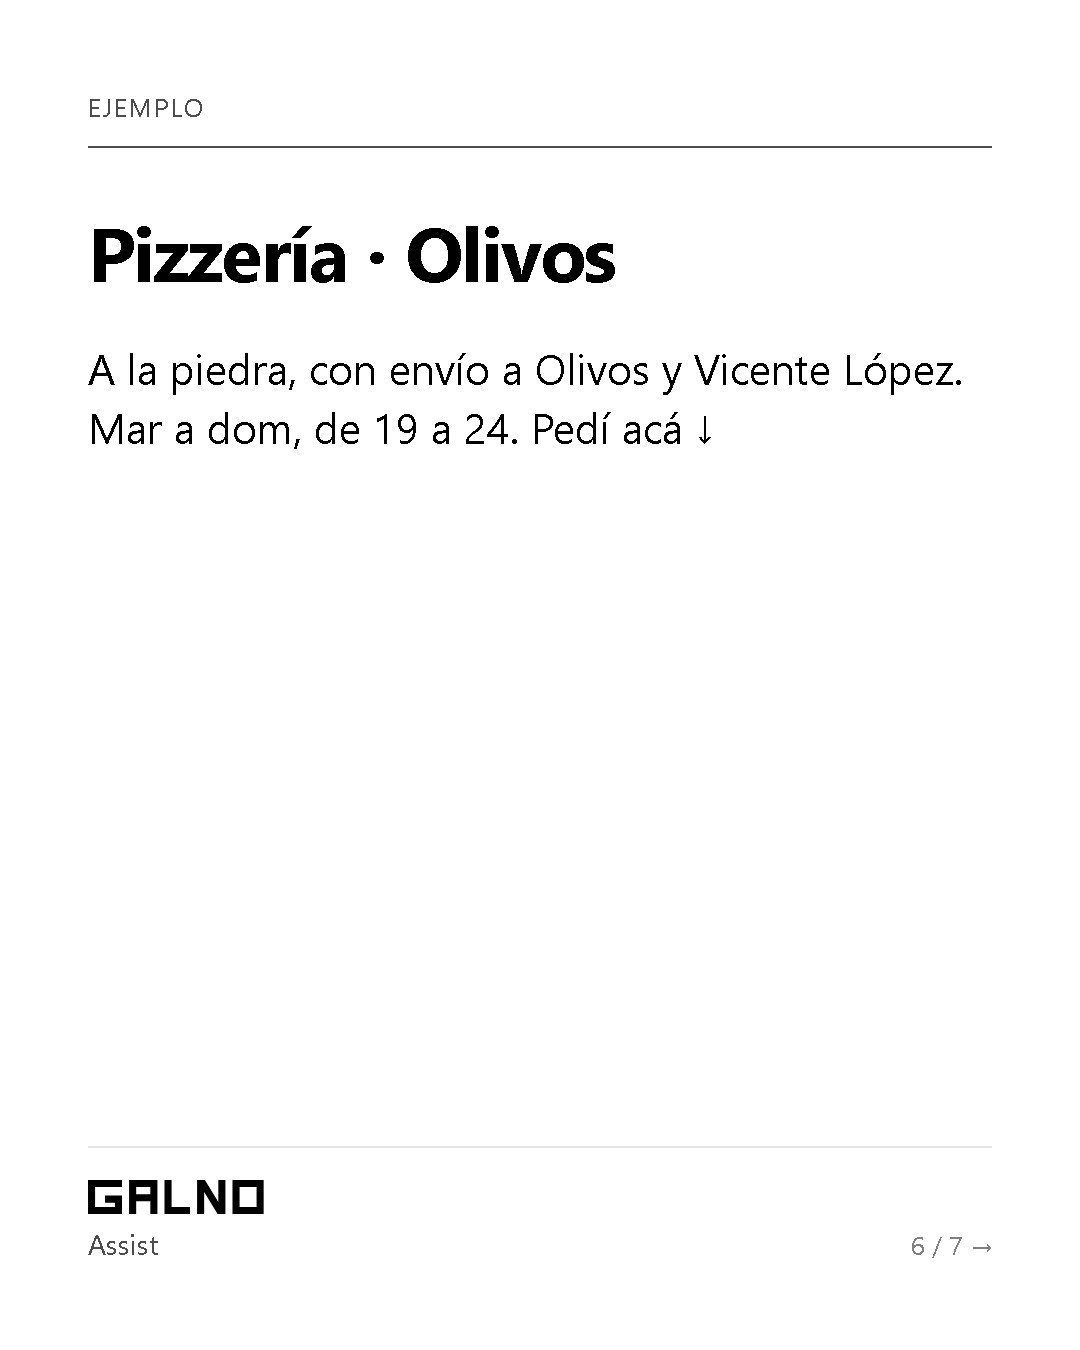
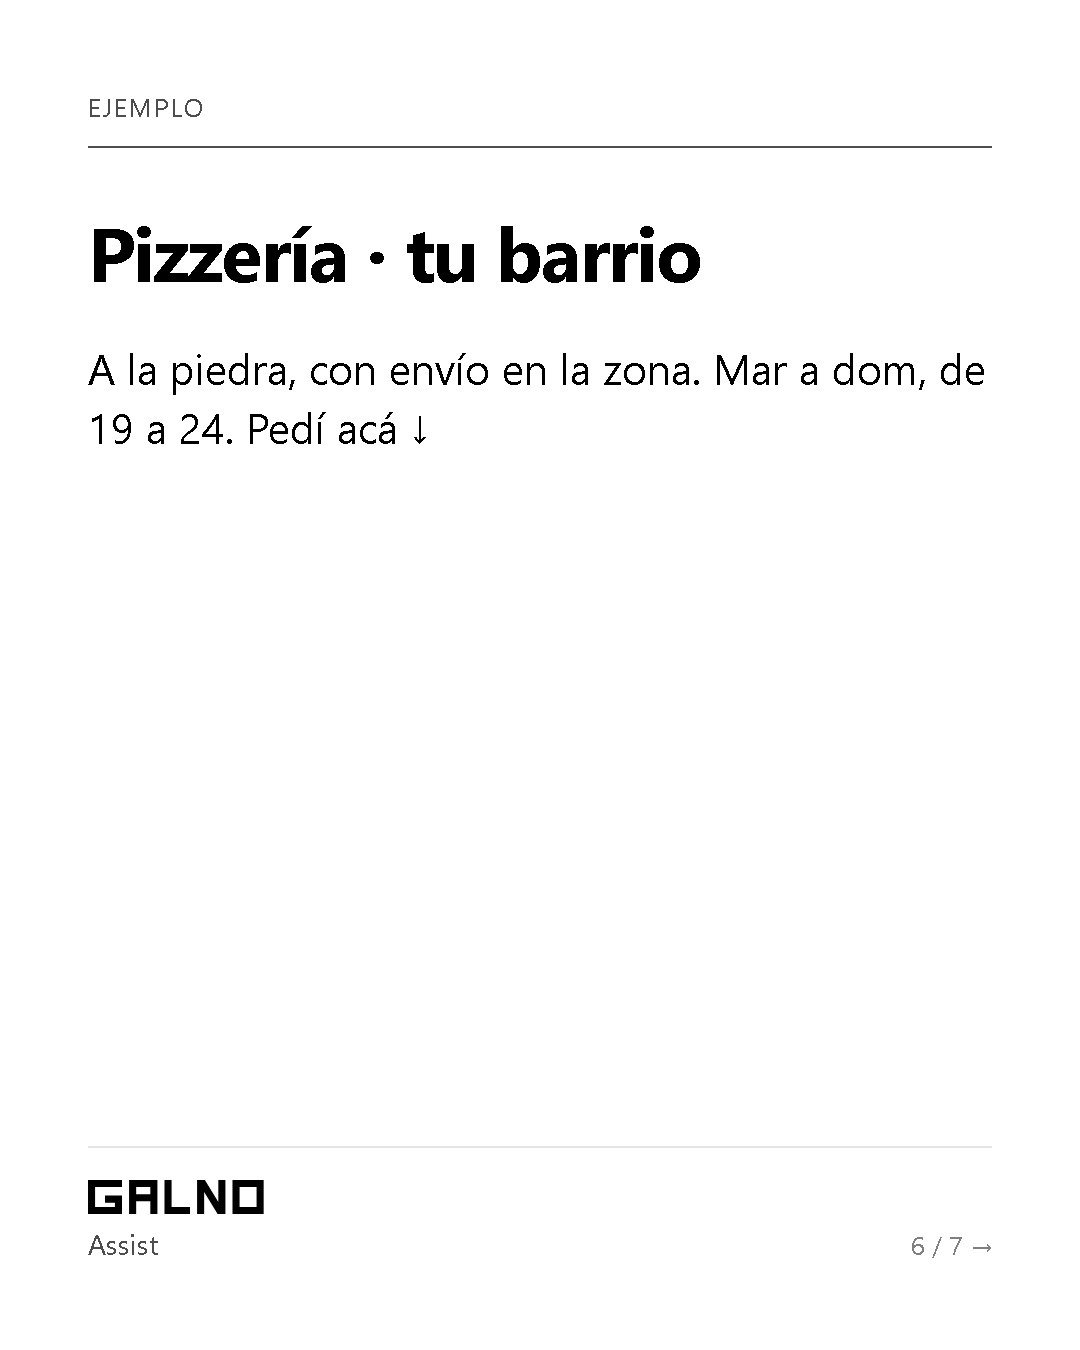
contenido: semana sin foco en Zona Norte

Changed region(s): [[0.0917, 0.2489, 0.7028, 0.3422], [0.3667, 0.1556, 0.6722, 0.2178], [0.7333, 0.2489, 0.9167, 0.3111]]

diff --git a/semanas/s2026_11_16.py b/semanas/s2026_11_16.py
@@ -31,7 +31,7 @@ def cierre(titulo: str, bajada: str = "Si te sirvió, guardalo o mandáselo a al
 CARRUSELES = {
     "2026-11-16-lun-senales-whatsapp": dict(
         fecha_hora=fh(16, 8, 30),
-        hashtags=["negocioslocales", "whatsappbusiness", "zonanorte"],
+        hashtags=["negocioslocales", "whatsappbusiness", "emprendedores"],
         texto=(
             "Si tu local vende por WhatsApp, estas 3 señales te dicen que se te están yendo pedidos.\n\n"
             "Ninguna se arregla trabajando más horas: se arreglan dejando a la vista lo que el cliente pregunta siempre.\n\n"
@@ -112,7 +112,7 @@ CARRUSELES = {
             {"etiqueta": "2", "titulo": "Dónde estás", "cuerpo": "Barrio o zona de envío. El que es de otra zona se ahorra preguntar."},
             {"etiqueta": "3", "titulo": "Cuándo atendés", "cuerpo": "Días y horario. Si cambia seguido, que el link lo muestre actualizado."},
             {"etiqueta": "4", "titulo": "Cómo te compran", "cuerpo": "Un solo link claro: carta, catálogo o turnos. No cinco links distintos."},
-            {"etiqueta": "Ejemplo", "titulo": "Pizzería · Olivos", "cuerpo": "A la piedra, con envío a Olivos y Vicente López. Mar a dom, de 19 a 24. Pedí acá ↓"},
+            {"etiqueta": "Ejemplo", "titulo": "Pizzería · tu barrio", "cuerpo": "A la piedra, con envío en la zona. Mar a dom, de 19 a 24. Pedí acá ↓"},
             cierre("Revisá tu bio hoy"),
         ],
     ),
@@ -143,7 +143,7 @@ PLACAS = {
 REELS = {
     "2026-11-17-mar-demo-pedidos": dict(
         fecha_hora=fh(17, 20), ejemplo=True,
-        hashtags=["pizzeria", "pedidosonline", "zonanorte"],
+        hashtags=["pizzeria", "pedidosonline", "gastronomia"],
         texto=(
             "Negocio de ejemplo: así pide un cliente en una pizzería sin mandar un audio.\n\n"
             "Ve la carta con precios, arma el pedido y te llega por WhatsApp completo y por escrito. Vos lo preparás, sin anotar nada.\n\n"
@@ -174,7 +174,7 @@ REELS = {
     ),
     "2026-11-18-mie-antes-despues-turnos": dict(
         fecha_hora=fh(18, 20), ejemplo=True,
-        hashtags=["barberia", "turnosonline", "zonanorte"],
+        hashtags=["barberia", "turnosonline", "emprendedores"],
         texto=(
             "Negocio de ejemplo: una barbería antes y después de tener turnos online.\n\n"
             "Antes: diez mensajes para encontrar un horario, mientras estás cortando. Después: el cliente ve lo libre y reserva solo.\n\n"
